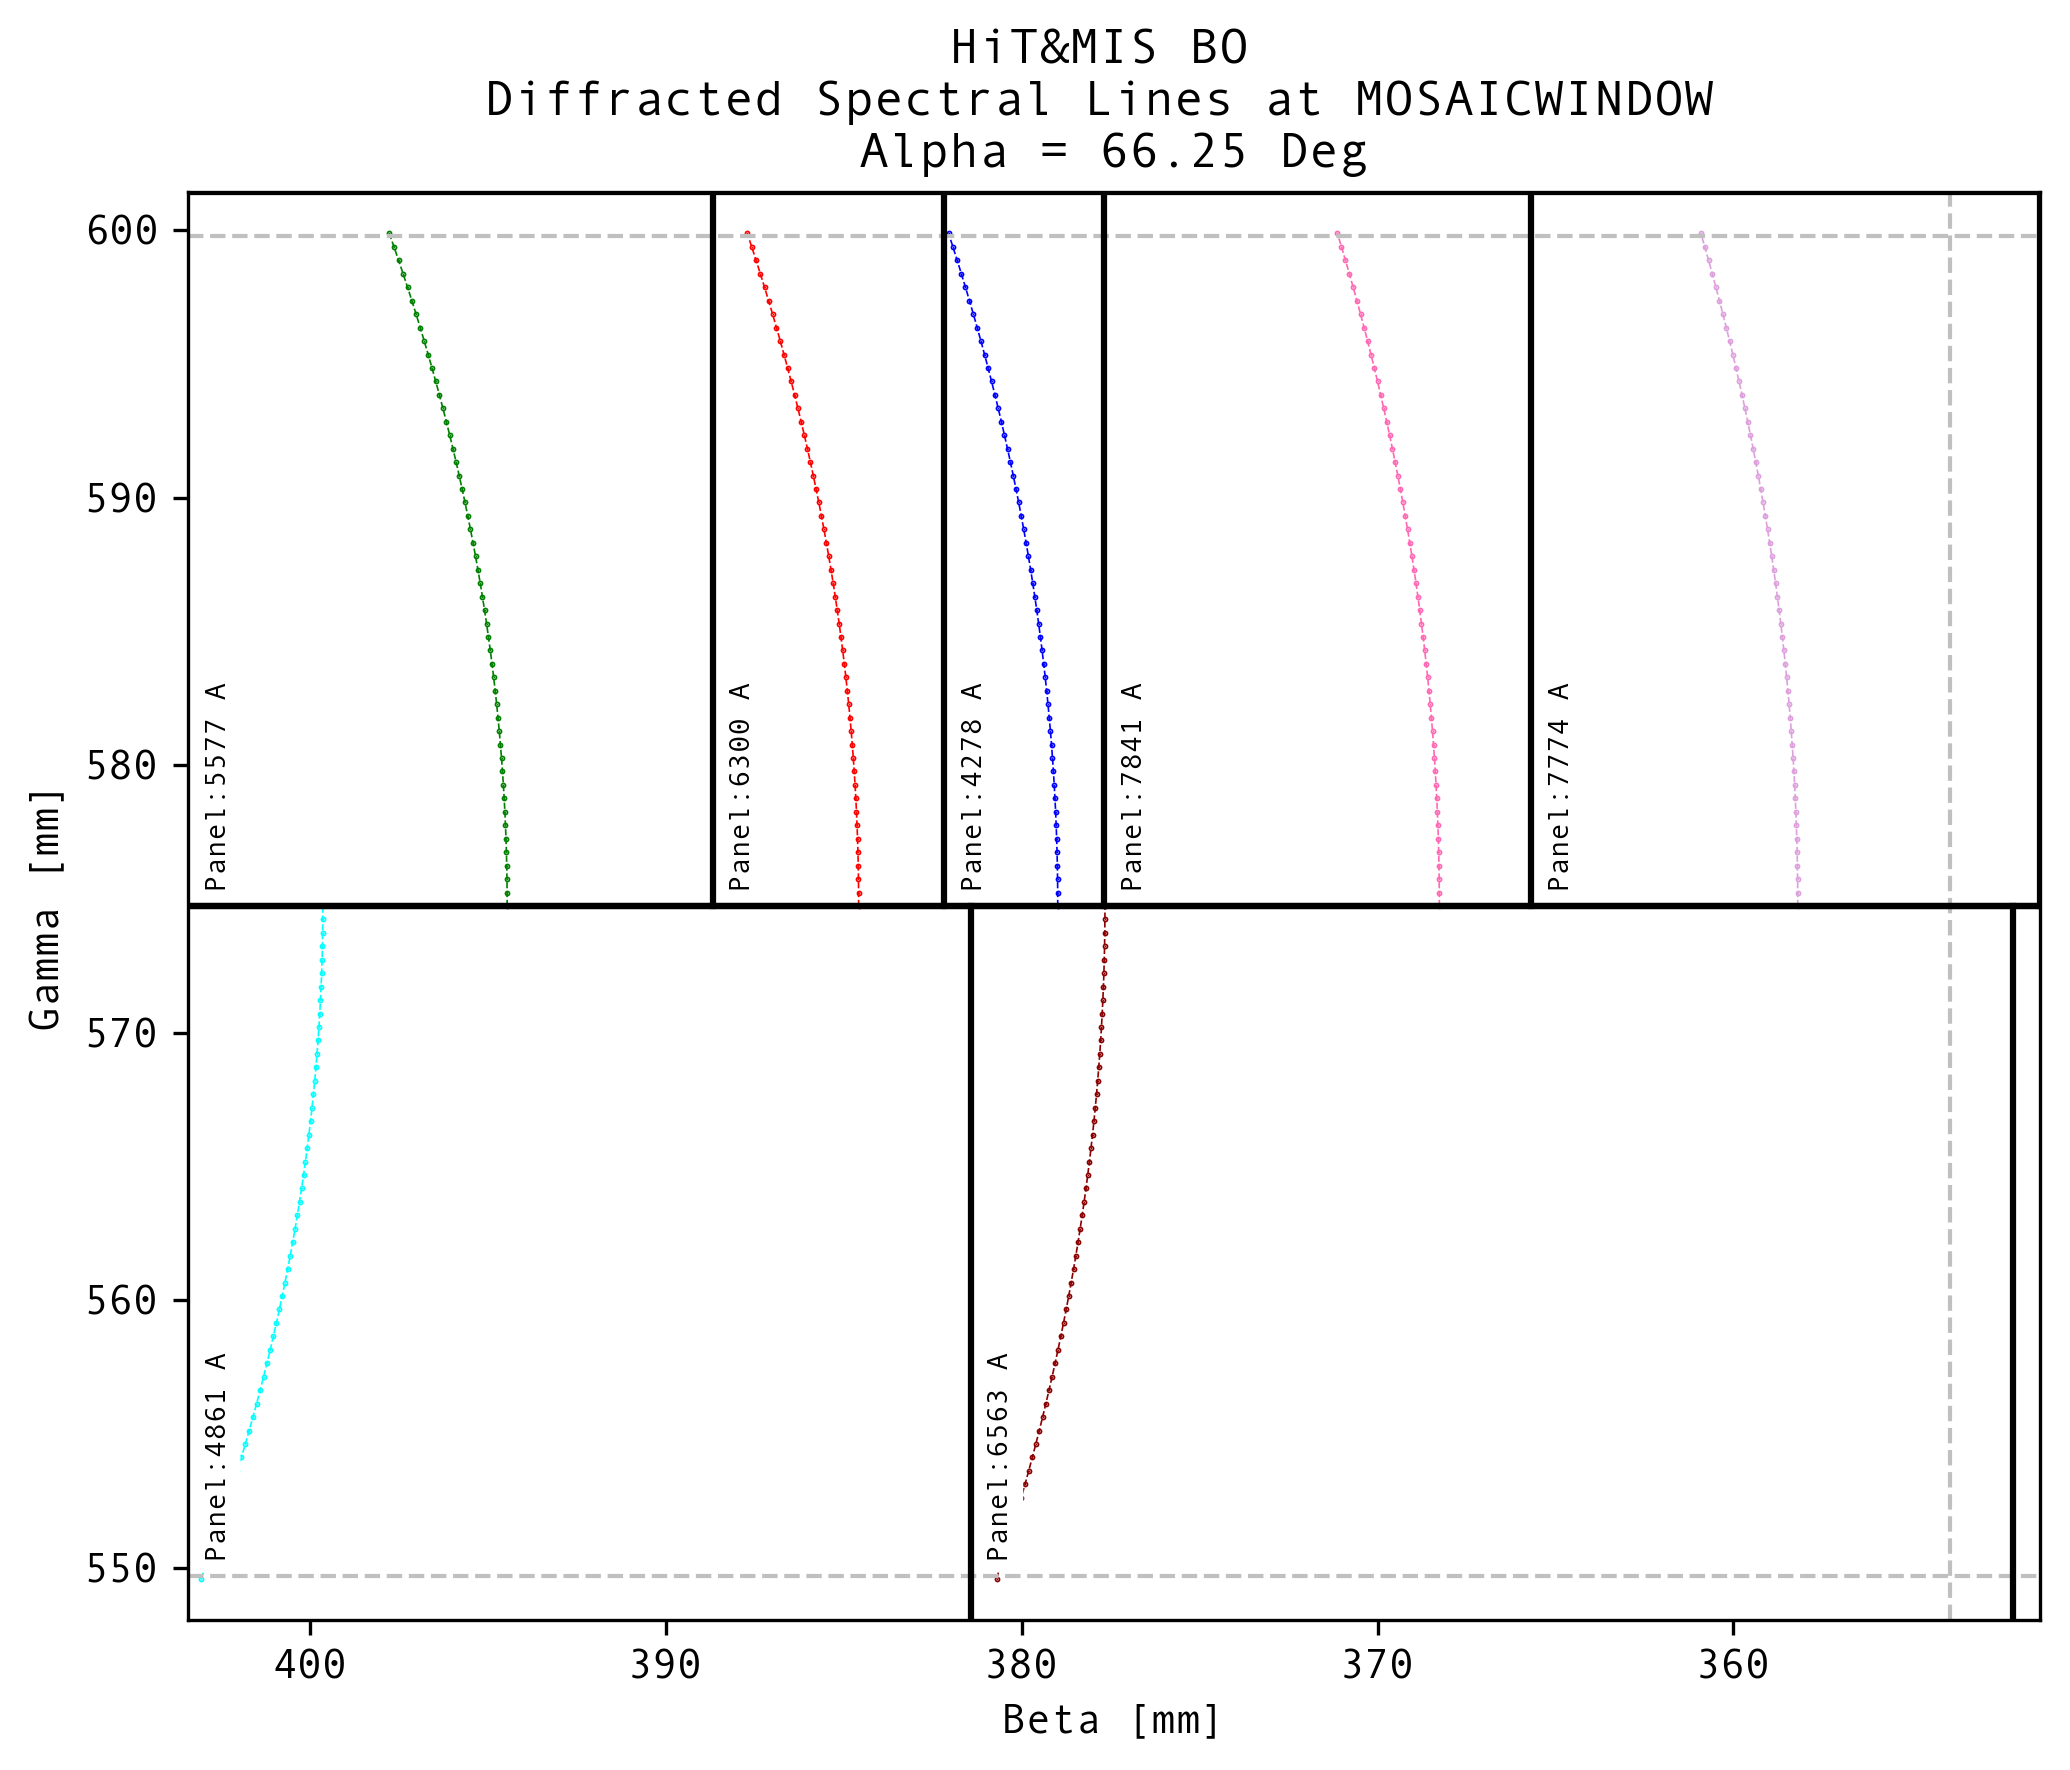
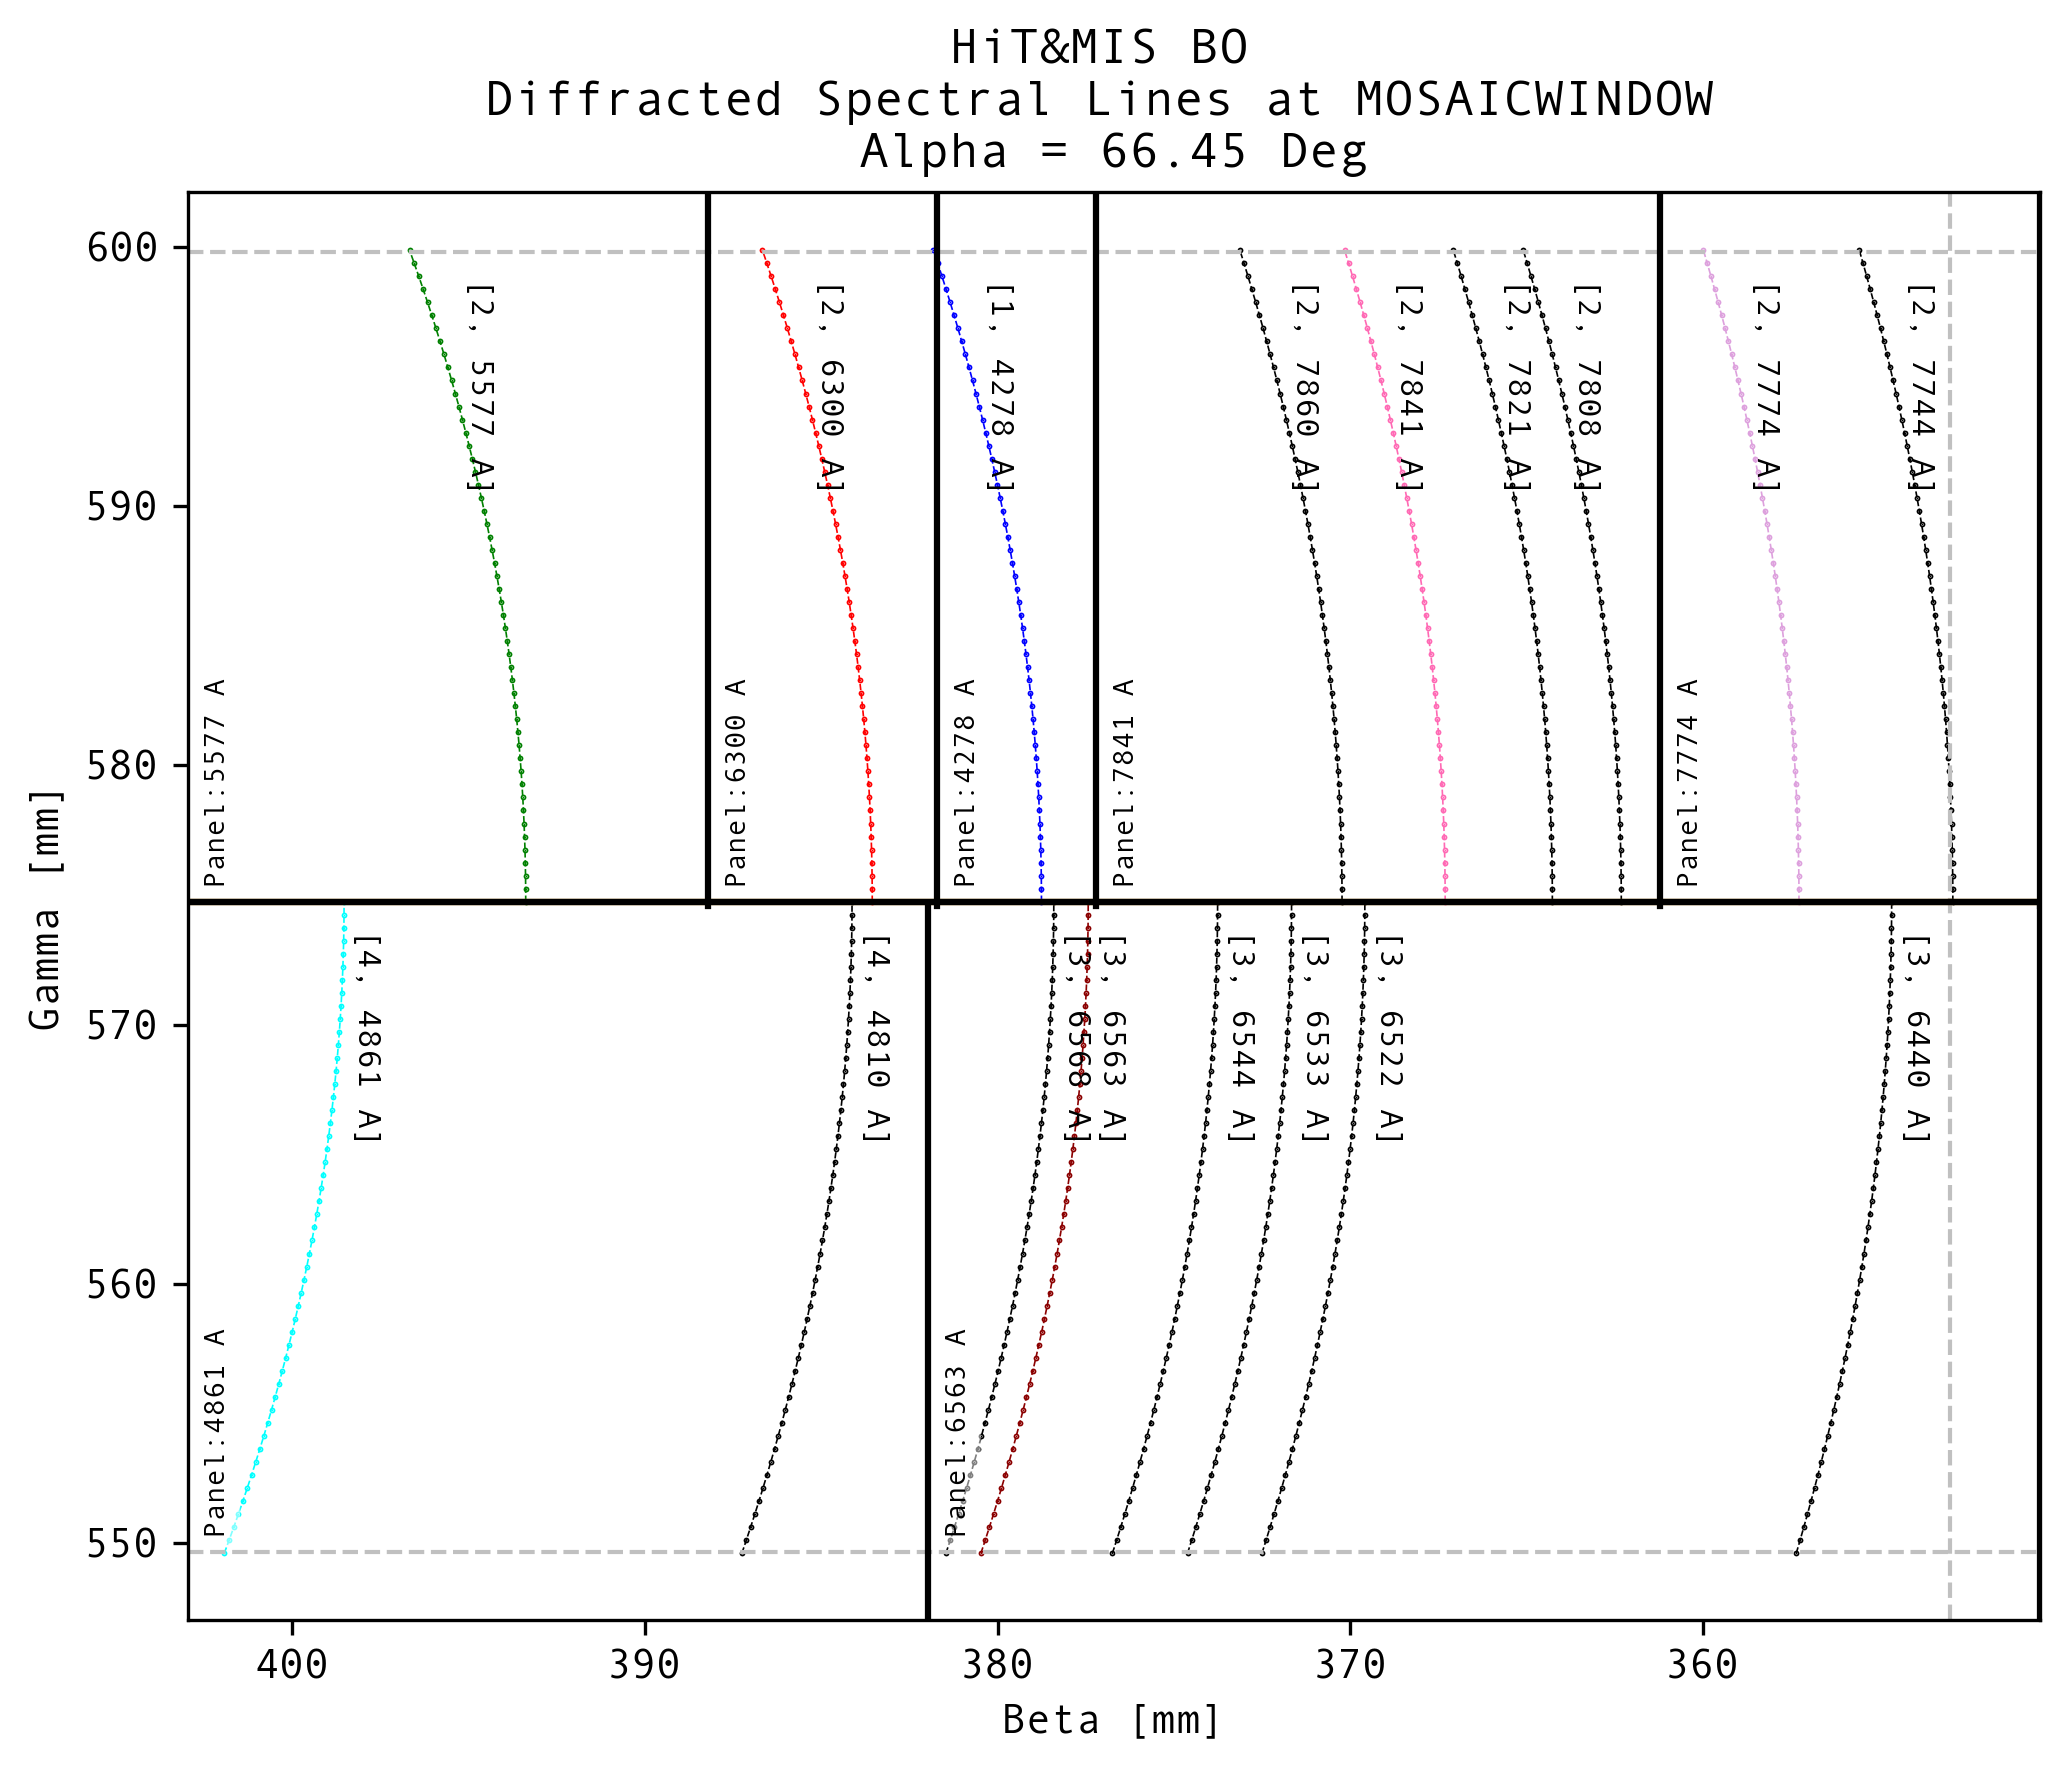
added measuments for HMS-B.

diff --git a/hitmis_Instrument/param_dict_save.py b/hitmis_Instrument/param_dict_save.py
@@ -99,14 +99,14 @@ hmsB_ParamDict = {
     'SlitLengthmm': 55.30, #slight length, mm.
     'SlitLengthdeg': np.rad2deg(np.arctan(55.30/400)), # slit length = slitlen/focallength,Deg.
     'sigma': 10245.208387, #measured grating density
-    'relSlitPositionmm': 21.07, #Distance between the two slits, mm.
-    'SlitA2FarEdgemm': 69.16, #distance between slit closest to mosaic and the farest edge of the mosaic, mm.
-    'SlitA2CloseEdgemm': 13.83, #distance between slit closest to mosaic and the closest edge of the mosaic, mm.
-    'MosaicWidthmm':52.05,
-    'MosaicHeightmm': 53.38,
+    'relSlitPositionmm': 20.04, #Distance between the two slits, mm.
+    'SlitA2FarEdgemm': 71.35, #distance between slit closest to mosaic and the farest edge of the mosaic, mm.
+    'SlitA2CloseEdgemm': 15.83, #distance between slit closest to mosaic and the closest edge of the mosaic, mm.
+    'MosaicWidthmm':52.52,
+    'MosaicHeightmm': 55.10,
     #Blue tap facing away from grating, if we are looking from grating to mosaic
-    'MosaicWindowWidthmm':49.52, #The window that the camera images, mm.
-    'MosaicWindowHeightmm':50.05, #the window height that the camera images, mm.
+    'MosaicWindowWidthmm':49.96, #The window that the camera images, mm.
+    'MosaicWindowHeightmm':50.15, #the window height that the camera images, mm.
     'MosaicFilters': [['4278','7774','6300','5577'],  #top panel from L -> R
                       ['4861','6563']] #bottom panel from L -> R
     }
@@ -200,14 +200,14 @@ hmsBOrigin_ParamDict = {
     'SlitLengthmm': 55.30, #slight length, mm.
     'SlitLengthdeg': np.rad2deg(np.arctan(55.30/400)), # slit length = slitlen/focallength,Deg.
     'sigma': 10245.208387, #measured grating density
-    'relSlitPositionmm': 21.07, #Distance between the two slits, mm.
-    'SlitA2FarEdgemm': 69.16, #distance between slit closest to mosaic and the farest edge of the mosaic, mm.
-    'SlitA2CloseEdgemm': 13.83, #distance between slit closest to mosaic and the closest edge of the mosaic, mm.
-    'MosaicWidthmm':52.05,
-    'MosaicHeightmm': 53.38,
+    'relSlitPositionmm': 20.04, #Distance between the two slits, mm.
+    'SlitA2FarEdgemm': 71.35, #distance between slit closest to mosaic and the farest edge of the mosaic, mm.
+    'SlitA2CloseEdgemm': 15.83, #distance between slit closest to mosaic and the closest edge of the mosaic, mm.
+    'MosaicWidthmm':52.52,
+    'MosaicHeightmm': 55.10,
     #Blue tap facing away from grating, if we are looking from grating to mosaic
-    'MosaicWindowWidthmm':49.52, #The window that the camera images, mm.
-    'MosaicWindowHeightmm':50.05, #the window height that the camera images, mm.
+    'MosaicWindowWidthmm':49.96, #The window that the camera images, mm.
+    'MosaicWindowHeightmm':50.15, #the window height that the camera images, mm.
     'MosaicFilters': [['7774', '7841', '4278', '6300', '5577'], #top panel from L -> R
                       ['6563','4861']] #,'6544']]  #bottom panel from L -> R
     }
@@ -224,8 +224,8 @@ hmsBOrigin_wlParamDict = {
             'PanelLetter':'a',
             'PanelWindowWidthmm':14.75,
             'PanelWidthmm':14.75,
-            'PanelWindowHeightmm':25.025, #measure the window to + or -
-            'PanelHeightmm':26.69,
+            'PanelWindowHeightmm':24.775, #measure the window to + or -
+            'PanelHeightmm':24.775+2.64,
             },
     '6300':{'wl':630.0, 
             'color':'Red', 
@@ -234,8 +234,8 @@ hmsBOrigin_wlParamDict = {
             'PanelLetter':'b',
             'PanelWindowWidthmm': 6.5,  #1.44 ,
             'PanelWidthmm':6.5,
-            'PanelWindowHeightmm':25.025, #measure the window to + or -
-            'PanelHeightmm':26.69,
+            'PanelWindowHeightmm':24.775, #measure the window to + or -
+            'PanelHeightmm':24.775+2.64,
             },
     '4278':{'wl':427.8, 
             'color':'blue', 
@@ -244,8 +244,8 @@ hmsBOrigin_wlParamDict = {
             'PanelLetter':'d',
             'PanelWindowWidthmm':4.5, #measure the window to + or -
             'PanelWidthmm':4.5,
-            'PanelWindowHeightmm':25.025, #measure the window to + or -
-            'PanelHeightmm':26.69,
+            'PanelWindowHeightmm':24.775, #measure the window to + or -
+            'PanelHeightmm':24.775+2.64,
             },
     '7841':{'wl':784.1, 
             'color':'hotpink', 
@@ -254,8 +254,8 @@ hmsBOrigin_wlParamDict = {
             'PanelLetter':'d',
             'PanelWindowWidthmm':16, #measure the window to + or -
             'PanelWidthmm':16,
-            'PanelWindowHeightmm':25.025, #measure the window to + or -
-            'PanelHeightmm':26.69,
+            'PanelWindowHeightmm':24.775, #measure the window to + or -
+            'PanelHeightmm':24.775+2.64,
             },
         
     '7774':{'wl':777.4, 
@@ -263,10 +263,10 @@ hmsBOrigin_wlParamDict = {
             'SlitNum':2, 
             'DiffractionOrder': 23,
             'PanelLetter':'c',
-            'PanelWindowWidthmm':10.3 -2.53,
-            'PanelWidthmm':10.3,
-            'PanelWindowHeightmm':25.025, #measure the window to + or -
-            'PanelHeightmm':26.69,
+            'PanelWindowWidthmm':8.21,
+            'PanelWidthmm': 8.21 + 2.56,
+            'PanelWindowHeightmm':24.775, #measure the window to + or -
+            'PanelHeightmm':24.775+2.64,
             },
     '4861':{'wl':486.1, 
             'color':'cyan', 
@@ -275,29 +275,19 @@ hmsBOrigin_wlParamDict = {
             'PanelLetter':'f',
             'PanelWindowWidthmm':21 , #measure the window to + or -
             'PanelWidthmm':21,
-            'PanelWindowHeightmm':25.025, #measure the window to + or -
-            'PanelHeightmm':26.69,
+            'PanelWindowHeightmm':25.375, #measure the window to + or -
+            'PanelHeightmm':25.375 + 2.31,
             },
     '6563':{'wl':656.3, 
             'color':'Darkred',
             'SlitNum':3,
             'DiffractionOrder': 28,
             'PanelLetter':'e',
-            'PanelWindowWidthmm':29.3 - 2.53 , 
-            'PanelWidthmm':31.05,
-            'PanelWindowHeightmm':25.025, #measure the window to + or -
-            'PanelHeightmm':26.69,
+            'PanelWindowWidthmm':28.96 , 
+            'PanelWidthmm':28.96 + 2.56 ,
+            'PanelWindowHeightmm':25.375, #measure the window to + or -
+            'PanelHeightmm':25.375 + 2.31,
             },
-#     '6544':{'wl':654.4, 
-#             'color':'darkorange', 
-#             'SlitNum':3, 
-#             'DiffractionOrder': 28,
-#             'PanelLetter':'f',
-#             'PanelWindowWidthmm':29.3 , #measure the window to + or -
-#             'PanelWidthmm':29.3,
-#             'PanelWindowHeightmm':26.69, #measure the window to + or -
-#             'PanelHeightmm':26.69,
-#             }
     
 }
 # Save dictionary to a file

diff --git a/hitmis_Instrument/img_predictor.py b/hitmis_Instrument/img_predictor.py
@@ -285,8 +285,15 @@ class HMS_ImagePredictor:
 
         # Y1_w = Y1 + 3.2
         # Y2_w = Y2 -1.94 
-        Y1_w = Y1 + 1.665
-        Y2_w = Y2 -1.665 
+        #y postion adjusted by ledge height
+        toppanel_wls = list(self.hmsParamDict['MosaicFilters'][1])
+        wdict = self.wlParamDict[toppanel_wls[0]]
+        Y1_w = Y1 + (wdict['PanelHeightmm'] - wdict['PanelWindowHeightmm'])
+        
+        #y postion adjusted by ledge height
+        bottompanel_wls = list(self.hmsParamDict['MosaicFilters'][0])
+        wdict = self.wlParamDict[bottompanel_wls[0]]
+        Y2_w = Y2 - (wdict['PanelHeightmm'] - wdict['PanelWindowHeightmm'])
         
         ax.set_xlim(X2_w,X1_w) #limit from L-> R if looking from grating to mosaic.
         ax.set_ylim(Y2_w,Y1_w)
@@ -303,6 +310,9 @@ class HMS_ImagePredictor:
         ls = '-'
         lw = 1.5
         ax.axhline(Y2_w + self.wlParamDict['6563']['PanelHeightmm'],linewidth = lw, linestyle = ls,color =c)
+        #test for the difference between horizontal line at gamma = 90 and the middle seam of mosiac. they should be right on top of eachother.
+        # ax.axhline(self.g0,linewidth = lw, linestyle = ls,color ='orange')
+        # print(Y2_w + self.wlParamDict['6563']['PanelHeightmm'] - self.g0)
         
     
         def annotate_width(lenmm,x_start,y0,wl,toppanel:bool=True,measurement:bool=Mesurements):
@@ -541,12 +551,12 @@ class HMS_ImagePredictor:
 
 
 #%%
-predictor = HMS_ImagePredictor(hmsVersion='bo',mgammadeg=90,alpha=66.25)
+predictor = HMS_ImagePredictor(hmsVersion='bo',mgammadeg=90,alpha=66.45)
 
 # %%
 # img = predictor.plot_spectral_lines('Mosaicwindow',True,wls = [557.7, 630.0,427.8, 784.1,777.4,486.1,656.3], mosaic=True,measurement=True)
 
-img = predictor.plot_spectral_lines('Mosaicwindow',True,wls = [557.7, 630.0,427.8, 784.1,777.4,486.1,656.3,656.8,480.5,644,786.0,782.1,780.8,652.2,654.4,653.3], mosaic=True,measurement=False)
+img = predictor.plot_spectral_lines('Mosaicwindow',True,wls = [557.7, 630.0,427.8, 784.1,777.4,486.1,656.3,656.8,481,644,786.0,782.1,780.8,652.2,654.4,653.3, 774.4], mosaic=True,measurement=False)
 
 #%%
 # img = predictor.plot_spectral_lines('Mosaicwindow',True,wls = [557.7, 630.0,427.8, 784.1,777.4,486.1,656.3])

diff --git a/hitmis_Instrument/pix2wl_determination.py b/hitmis_Instrument/pix2wl_determination.py
@@ -162,7 +162,7 @@ class MapPixel2Wl:
         return straightened_image, target_wls
 
 # %%
-predictor = HMS_ImagePredictor('a',67.39,50)
+predictor = HMS_ImagePredictor('bo',67.39,50)
 # %%
 mapping = MapPixel2Wl(predictor)
 
@@ -229,4 +229,9 @@ plt.legend(loc = 'best')
 
     
 
+# %%
+plt.imshow(mapping.lambdagrid)
+# %%
+img,wl_arr =mapping.straighten_img('',777.4)
+print(np.min(wl_arr), np.max(wl_arr))
 # %%
